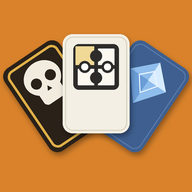
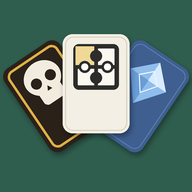
ゲームコレクション v0.3.2: アイコンの背景を深緑に変更
Claude-Session: https://claude.ai/code/session_013kTsaeDHdJjMzQp8KtMTm5

diff --git a/sw.js b/sw.js
@@ -1,6 +1,6 @@
 // ゲームコレクション (game list): network first, cache as fallback (offline). Only the list's own files —
 // each game (/kropki/, /dungeon-chain/ …) has its own service worker.
-const C = 'asobiba-v5', OWN = ['/', '/index.html', '/manifest.json', '/icon-192.png', '/icon-512.png', '/apple-touch-icon.png', '/favicon.png', '/icon-maskable-512.png'];
+const C = 'asobiba-v6', OWN = ['/', '/index.html', '/manifest.json', '/icon-192.png', '/icon-512.png', '/apple-touch-icon.png', '/favicon.png', '/icon-maskable-512.png'];
 self.addEventListener('install', e => { e.waitUntil(caches.open(C).then(c => c.addAll(OWN)).then(() => self.skipWaiting())); });
 self.addEventListener('activate', e => { e.waitUntil(caches.keys().then(ks => Promise.all(ks.filter(k => k.startsWith('asobiba-') && k !== C).map(k => caches.delete(k)))).then(() => self.clients.claim())); });
 self.addEventListener('fetch', e => {

diff --git a/index.html b/index.html
@@ -135,7 +135,7 @@ button:active{transform:scale(.97)}
 
 <script>
 (function(){
-var VERSION = '0.3.1';
+var VERSION = '0.3.2';
 var NAME = 'ゲームコレクション';   // the list's name (title, install screen)
 /* ---- the games ---- */
 var GAMES = [
